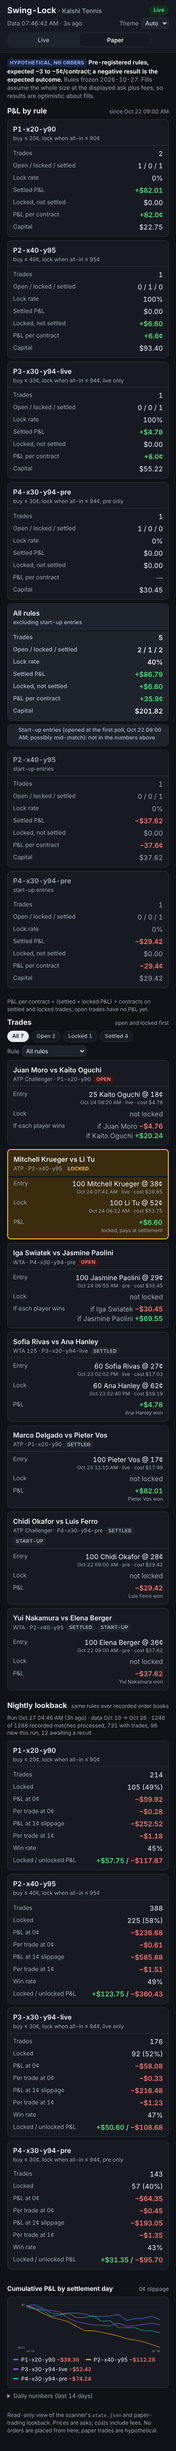
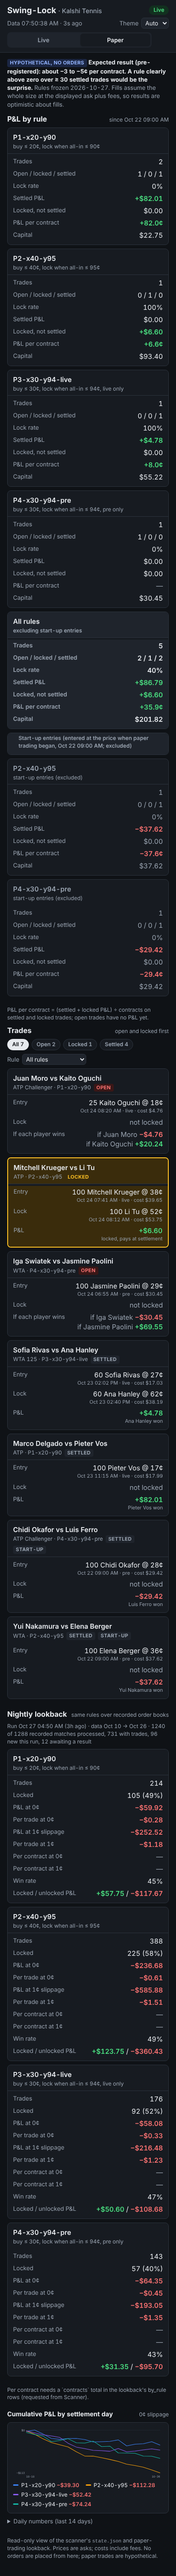
Dashboard Paper tab: Lead's review wording, truncation note, lookback per contract
- intro: 'Expected result (pre-registered): about -3 to -5c per contract. A rule clearly
  above zero over >= 30 settled trades would be the surprise.'
- start-up label: 'entered at the price when paper trading began; excluded'; note that
  the split may be incomplete when the trade list is at its 200 cap
- lookback: P&L per contract at 0c and 1c when by_rule rows carry 'contracts' (requested
  from Scanner); a note until then
- screenshots retaken

Claude-Session: https://claude.ai/code/session_01W1DSUJuc7wQcHRTpWk2cX2

Changed region(s): [[0.0308, 0.0, 0.9538, 0.995], [0.5846, 0.8084, 0.6154, 0.8706], [0.4, 0.0933, 0.4308, 0.1244]]

diff --git a/swinglock/dashboard/static/app.js b/swinglock/dashboard/static/app.js
@@ -405,20 +405,21 @@ function paperRules(paper) {
     const h = ts.filter((t) => !isStartup(paper, t)), s = ts.filter((t) => isStartup(paper, t));
     head.push(...h); start.push(...s);
     rows.push(ruleRow(b.rule || "?", ruleText(rules.get(b.rule)), agg(h)));
-    if (s.length) startRows.push(ruleRow(b.rule || "?", "start-up entries", agg(s), "startup"));
+    if (s.length) startRows.push(ruleRow(b.rule || "?", "start-up entries (excluded)", agg(s), "startup"));
   }
   if (!rows.length) rows.push(el("tr", {}, el("td", { colspan: 8, class: "empty" }, "No rules in state.json.")));
   else if (!truncated && ids.length > 1) rows.push(ruleRow("All rules", "excluding start-up entries", agg(head), "total"));
   if (startRows.length) {
     rows.push(el("tr", { class: "group" }, el("td", { colspan: 8 },
-      `Start-up entries (opened at the first poll, ${fmtDateTime(paper.since)}; possibly mid-match): not in the numbers above`)));
+      `Start-up entries (entered at the price when paper trading began, ${fmtDateTime(paper.since)}; excluded)`)));
     rows.push(...startRows);
   }
   const out = [table("paper-rules", [["Rule"], ["Trades", 1], ["Open / locked / settled", 1], ["Lock rate", 1],
     ["Settled P&L", 1], ["Locked, unsettled", 1], ["P&L / contract", 1], ["Capital", 1]], rows)];
   out.push(el("p", { class: "meta-line" },
     "P&L per contract = (settled + locked P&L) ÷ contracts on settled and locked trades; open trades have no P&L yet."
-    + (truncated ? " Some rules have more trades than the list carries (200), so their start-up split and per-contract figure aren't shown." : "")));
+    + (truncated ? " Some rules have more trades than the list carries (200), so their start-up split and per-contract figure aren't shown."
+      : trades.length >= 200 ? " The trade list is capped at 200, so the start-up split may be incomplete." : "")));
   return out;
 }
 
@@ -548,11 +549,16 @@ function lookbackSection() {
     td("Per trade at 0¢", money(s0?.pnl_per_trade)),
     td("P&L at 1¢ slippage", money(s1?.pnl)),
     td("Per trade at 1¢", money(s1?.pnl_per_trade)),
+    td("Per contract at 0¢", perCt(s0 && isNum(s0.contracts) && s0.contracts > 0 ? s0.pnl / s0.contracts : null)),
+    td("Per contract at 1¢", perCt(s1 && isNum(s1.contracts) && s1.contracts > 0 ? s1.pnl / s1.contracts : null)),
     td("Win rate", pctText(s0?.win_rate)),
     td("Locked / unlocked P&L", [money(s0?.pnl_locked), " / ", money(s0?.pnl_unlocked)])));
-  if (!trs.length) trs.push(el("tr", {}, el("td", { colspan: 9, class: "empty" }, "No lookback trades yet.")));
+  if (!trs.length) trs.push(el("tr", {}, el("td", { colspan: 11, class: "empty" }, "No lookback trades yet.")));
   out.push(table("lookback", [["Rule"], ["Trades", 1], ["Locked", 1], ["P&L 0¢", 1], ["Per trade 0¢", 1], ["P&L 1¢", 1],
-    ["Per trade 1¢", 1], ["Win rate", 1], ["Locked / unlocked", 1]], trs));
+    ["Per trade 1¢", 1], ["Per ct 0¢", 1], ["Per ct 1¢", 1], ["Win rate", 1], ["Locked / unlocked", 1]], trs));
+  if (objs(L.by_rule).length && !objs(L.by_rule).some((b) => isNum(b.contracts))) {
+    out.push(el("p", { class: "meta-line" }, "Per contract needs a `contracts` total in the lookback's by_rule rows (requested from Scanner)."));
+  }
 
   const days = objs(L.by_day);
   const chart = dayChart(days);
@@ -586,7 +592,7 @@ function renderPaper() {
   paperKey = key;
   const out = [el("div", { class: "paper-note", role: "note" },
     el("span", { class: "badge hypo" }, "Hypothetical, no orders"), " ",
-    el("b", {}, "Pre-registered rules, expected −3 to −5¢/contract; a negative result is the expected outcome. "),
+    el("b", {}, "Expected result (pre-registered): about −3 to −5¢ per contract. A rule clearly above zero over ≥ 30 settled trades would be the surprise. "),
     "Rules frozen 2026-10-27. Fills assume the whole size at the displayed ask plus fees, so results are optimistic about fills.")];
   if (!paper) {
     out.push(el("div", { class: "card-note" }, state ? "The scanner isn't paper trading (no `paper` in state.json; it may run with --no-paper)." : "Loading…"));

diff --git a/swinglock/dashboard/check_page.js b/swinglock/dashboard/check_page.js
@@ -61,6 +61,9 @@ const VIEWPORTS = { phone: { width: 390, height: 844 }, laptop: { width: 1280, h
           chart: !!box.querySelector("svg.daychart"),
           chartLines: box.querySelectorAll("svg.daychart path, svg.daychart circle").length,
           hypo: box.querySelector(".badge.hypo")?.textContent || "",
+          intro: box.querySelector(".paper-note b")?.textContent || "",
+          lbPerCt: [...box.querySelectorAll("table.lookback tbody tr td:nth-child(8)")].map((td) => td.textContent),
+          metaLines: [...box.querySelectorAll(".meta-line")].map((n) => n.textContent),
           trades: box.querySelectorAll("table.paper-trades tbody tr:not(:has(td.empty))").length,
           locked: box.querySelectorAll("table.paper-trades tr.hot-lock").length,
           lookbackRows: box.querySelectorAll("table.lookback tbody tr:not(:has(td.empty))").length,

diff --git a/tests/test_dashboard.py b/tests/test_dashboard.py
@@ -297,6 +297,7 @@ def test_page_in_browser(serve, tmp_path, fresh):
         # headline excludes the two start-up entries (entry_ts == paper.since); P4's other trade is still open
         assert p["perContract"] == ["+82.0¢", "+6.6¢", "+8.0¢", "—"] and p["total"] == "+35.9¢"
         assert p["startup"] == 2 and p["startupBadges"] == 2
+        assert p["intro"].startswith("Expected result (pre-registered): about −3 to −5¢ per contract.")
         assert res["firstMarket"] == "Jaime Faria vs Nicolas Brunold"   # sorted by combined + fees
         f = res["filters"]
         assert f["search"] == {"rows": 1, "noMarket": 0, "label": "1 of 6 matches"}
@@ -363,6 +364,17 @@ def test_paper_tab_with_lookback(serve, tmp_path):
         p = res["paper"]
         assert p["lookbackRows"] == len(lb["rules"]) and p["days"] == 14 and p["notes"] == []
         assert p["chart"] and p["chartLines"] == len(lb["rules"])
+        assert set(p["lbPerCt"]) == {"—"} and any("needs a `contracts` total" in m for m in p["metaLines"])
+    # once Scanner sends `contracts` per by_rule row, per contract = P&L / contracts
+    lb["generated_at"] = _fresh(3)
+    for b in lb["by_rule"]:
+        b["contracts"] = b["trades"] * 50.0
+    lbf.write_text(json.dumps(lb))
+    want = [f"{'+' if b['pnl'] > 0 else '−'}{abs(b['pnl'] / b['contracts'] * 100):.1f}¢"
+            for b in lb["by_rule"] if b["slippage"] == 0.0]
+    for res in _run_check(serve(state, lbf)):
+        assert res["paper"]["lbPerCt"] == want
+        assert not any("needs a `contracts` total" in m for m in res["paper"]["metaLines"])
     lb["generated_at"] = _fresh(60)
     lbf.write_text(json.dumps(lb))
     for res in _run_check(serve(state, lbf)):

diff --git a/docs/ui_dashboard.md b/docs/ui_dashboard.md
@@ -51,14 +51,15 @@ an SSH tunnel (`ssh -L 8000:127.0.0.1:8000 vps`) or a VPN; there is no login on 
 ## Paper tab
 A "Live | Paper" switch under the header (`#paper` in the URL). The Paper view reads `state.paper` and `/lookback.json`
 (both from Scanner; contract approved with phat-d0/Tennis_Model#116, docs/scanner_paper.md):
-- **Banner:** a "Hypothetical, no orders" label and "Pre-registered rules, expected −3 to −5¢/contract; a negative result
-  is the expected outcome", plus the note that fills are optimistic.
+- **Banner:** a "Hypothetical, no orders" label and "Expected result (pre-registered): about −3 to −5¢ per contract. A rule
+  clearly above zero over ≥ 30 settled trades would be the surprise.", plus the note that fills are optimistic.
 - **P&L by rule:** trades, open / locked / settled, lock rate, **settled P&L** and **locked-but-unsettled P&L** in separate
   columns, **P&L per contract** (settled + locked P&L ÷ contracts on those trades; open trades have no P&L yet) and
   capital, plus an "All rules" total.
 - **Start-up entries:** trades with `entry_ts == paper.since` (opened at the first poll, possibly mid-match) are left out
   of the headline rows and the total. They get their own rows under a separate heading, and a "start-up" badge in
-  the trade list. The numbers are computed from `paper.trades`. If a rule has more trades than the list carries (it's
+  the trade list. The section is labelled "Start-up entries (entered at the price when paper trading began; excluded)". The
+  numbers are computed from `paper.trades`; when that list is at its 200 cap, a note says the split may be incomplete. If a rule has more trades than the list carries (it's
   capped at 200), that rule falls back to the scanner's `by_rule` totals, with no split and no per-contract figure, and
   a note says so.
 - **Trades:** status chips (All / Open / Locked / Settled, with counts) and a rule filter. Each trade shows the entry, the
@@ -66,7 +67,8 @@ A "Live | Paper" switch under the header (`#paper` in the URL). The Paper view r
   once locked, and the final P&L plus the winner once settled.
 - **Nightly lookback:**
   - run time, data range and match counts;
-  - per rule at 0¢ and 1¢: trades, locked (rate), P&L, P&L per trade, win rate, locked / unlocked P&L;
+  - per rule at 0¢ and 1¢: trades, locked (rate), P&L, P&L per trade, **P&L per contract** (needs a `contracts` total in
+    each by_rule row, requested from Scanner; until then a note says so), win rate, locked / unlocked P&L;
   - a **cumulative P&L chart by settlement day** (inline SVG, one line per rule), with the daily numbers in a
     collapsible table;
   - a warning when the run is over 36 h old.
